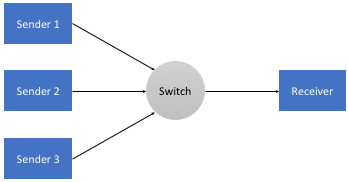
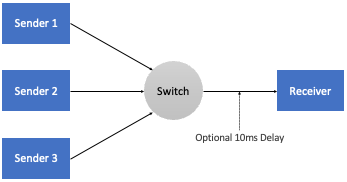
tweaked setup figs

diff --git a/design.rst b/design.rst
@@ -592,7 +592,8 @@ that throttles outgoing link bandwidth using ``tbf qdisc``.
    :width: 500px 
    :align: center 
 
-   Topology for 10- and 100-Mbps Tests with 40ms of delay introduced.
+   Topology for 10-Mbps and 100-Mbps Tests with 10ms or 40ms of delay
+   introduced.
 
 With respect to traffic workload, we evaluate the dynamics and
 fairness of algorithms with the following tests:
